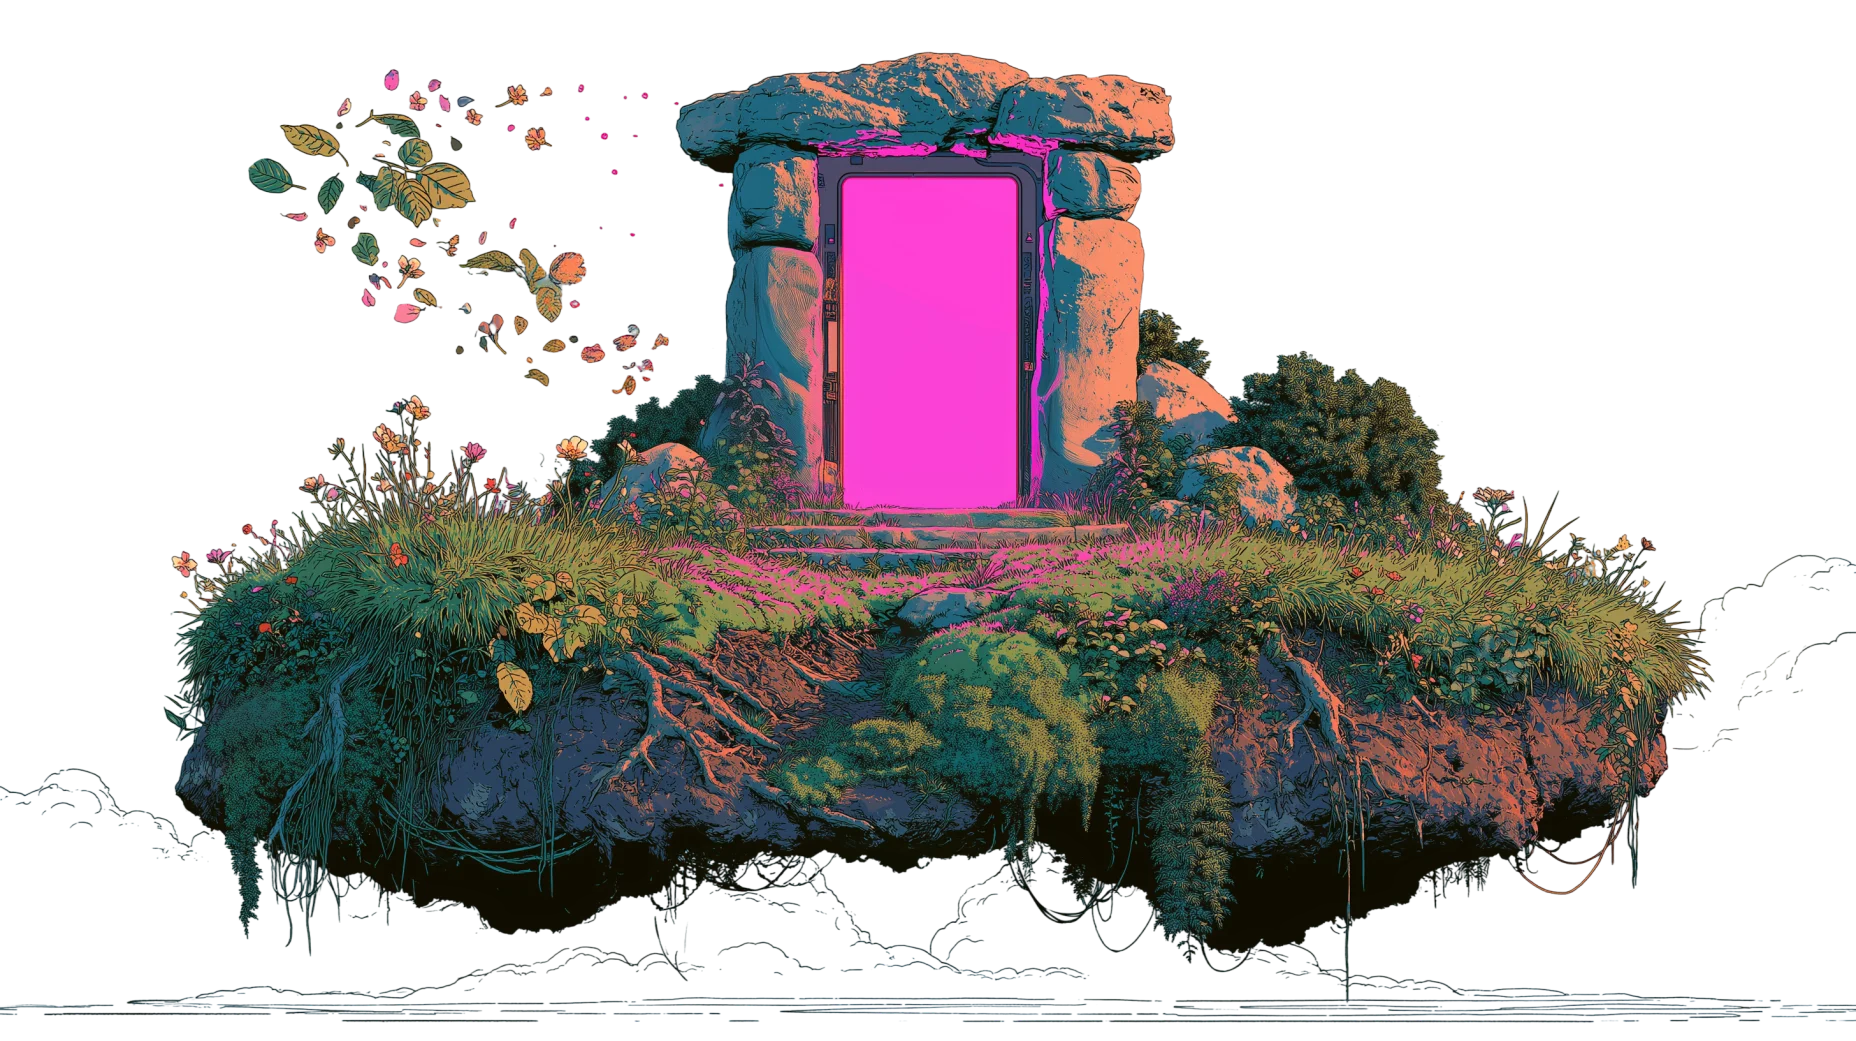
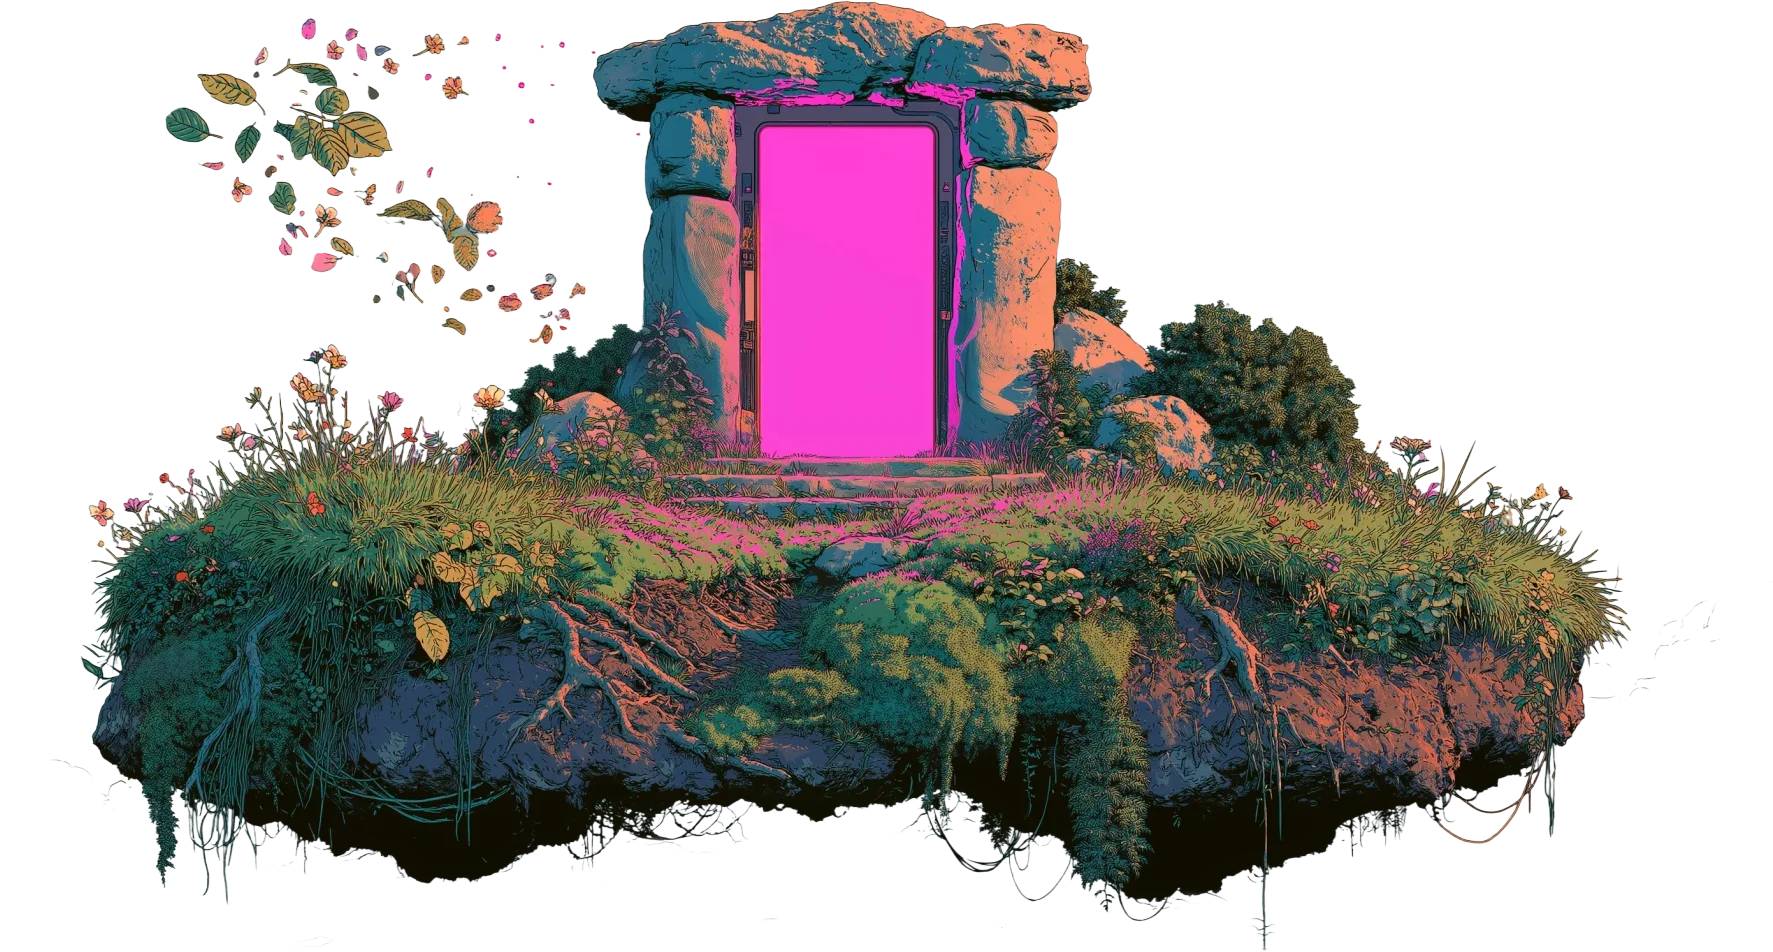
Split illustration into floating island over still clouds
- clouds.webp (lossless line-art base) renders behind island.webp
  (colour foreground) at the same position.
- Island gently bobs via island-float (7s ease-in-out, ~1.6% travel);
  clouds stay put, so the island reads as hovering above the mist.
- Portal glow now lives inside the island layer, so it drifts with it.
- Source PNGs gitignored; webp versions committed.

diff --git a/styles.css b/styles.css
@@ -753,14 +753,45 @@ a {
   display: block;
 }
 
-.illustration-frame img {
+/* Clouds = the still base layer. It sets the frame's height. */
+.illustration-clouds {
   display: block;
   width: 100%;
   height: auto;
   user-select: none;
 }
 
-/* Animated magenta glow positioned over the portal in the illustration.
+/* Island = the floating foreground layer, overlaid on the clouds.
+   It bobs gently via `island-float`. The portal glow lives inside it,
+   so the glow drifts up and down with the island. */
+.illustration-island {
+  position: absolute;
+  left: 0;
+  top: 0;
+  width: 100%;
+  pointer-events: none;
+  animation: island-float 7s ease-in-out infinite;
+  will-change: transform;
+}
+
+.illustration-island img {
+  display: block;
+  width: 100%;
+  height: auto;
+  user-select: none;
+}
+
+@keyframes island-float {
+  0%,
+  100% {
+    transform: translateY(0);
+  }
+  50% {
+    transform: translateY(-1.6%);
+  }
+}
+
+/* Animated magenta glow positioned over the portal.
    `mix-blend-mode: screen` adds light to the underlying pixels (rather than
    covering them), so the glow reads as bloom emanating from the portal itself. */
 .portal-glow {
@@ -797,6 +828,9 @@ a {
 }
 
 @media (prefers-reduced-motion: reduce) {
+  .illustration-island {
+    animation: none;
+  }
   .portal-glow {
     animation: none;
     opacity: 0.85;

diff --git a/index.html b/index.html
@@ -210,14 +210,25 @@
     <figure class="illustration">
       <span class="illustration-frame">
         <img
-          src="assets/island.webp"
+          class="illustration-clouds"
+          src="assets/clouds.webp"
           alt=""
           width="1856"
-          height="1040"
+          height="973"
           loading="lazy"
           decoding="async"
         />
-        <span class="portal-glow" aria-hidden="true"></span>
+        <span class="illustration-island" aria-hidden="true">
+          <img
+            src="assets/island.webp"
+            alt="A floating island holding a glowing portal."
+            width="1773"
+            height="952"
+            loading="lazy"
+            decoding="async"
+          />
+          <span class="portal-glow"></span>
+        </span>
       </span>
     </figure>
 